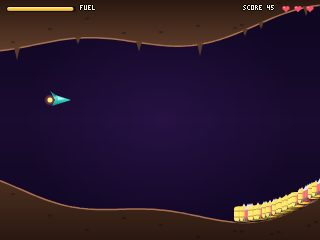
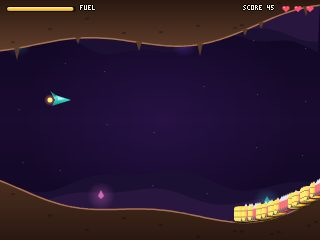
Round 29 batch 5 (v63): last checks and polish - all 55 3D worlds and the full test suite pass, Zombie Road redrawn (burning city, road, new truck), Cave Raid depth layers and crystals, Nova Arena guns no longer near-black
Claude-Session: https://claude.ai/code/session_01ThWvxuxbHiqKkzb7tn67px

diff --git a/games/action3.js b/games/action3.js
@@ -924,15 +924,23 @@ A.add({id:'zombieroad',name:'ZOMBIE ROAD',cat:'ACTION',time:300,how:'RIGHT GAS, 
   if(Math.abs(c.vx)<.15&&c.on){stopT++;if(stopT>70)endRun(c.fuel<=0?'OUT OF FUEL':'STALLED');}else stopT=0;if(c.fuel<0)c.fuel=0;
   camX+=(c.x-100+c.vx*10-camX)*.12;camY+=(c.y-160-camY)*.08;};
  const zomb=(x,y,st,k,rr)=>{const s=k==='fat'?.85:.7,o={s,c:k==='fat'?'#6a5a7a':'#5a6a8a',pants:'#3a3028',skin:'#8ab070',hair:'#3a3a20',st,d:-1,arm1:1.5,arm2:1.3,id:3};if(rr!==undefined)rot(x,y-10,rr,()=>A.person(0,10,o));else A.person(x,y,o);};
- const carD=()=>{const c=car,x=c.x-camX,y=c.y-camY;rot(x,y,c.a,()=>{GA(.3);R(-20,-2,40,3,'#000000');GA1();R(-20,-16,40,10,'#c83a2a');R(-8,-24,18,9,'#a02a20');R(-6,-23,7,6,'#a0d0f0');R(3,-23,6,6,'#a0d0f0');R(-20,-12,40,2,'#e86a4a');if(lv.arm){P([[20,-16],[27,-4],[20,-4]],'#9a9aa0',1);for(let i=0;i<lv.arm;i++)R(-18+i*4,-10,3,3,'#6a6a70');}
+ const carD=()=>{const c=car,x=c.x-camX,y=c.y-camY;rot(x,y,c.a,()=>{GA(.3);R(-20,-2,40,3,'#000000');GA1();const cc=A.c;if(loG())X.glow(30,-10,22,'#fff0b0',.25);cc.fillStyle='rgba(255,240,180,.12)';cc.beginPath();cc.moveTo(20,-12);cc.lineTo(80,-24);cc.lineTo(80,4);cc.closePath();cc.fill();P([[-21,-16],[-21,-6],[21,-6],[21,-13],[12,-15],[8,-25],[-9,-25],[-12,-16]],'#2a0e0a');cc.fillStyle=X.lg(0,-25,0,-6,['#f05a40','#c83a2a','#7a1e16']);cc.beginPath();cc.moveTo(-20,-15);cc.lineTo(-11,-15);cc.lineTo(-8,-24);cc.lineTo(7,-24);cc.lineTo(11,-14);cc.lineTo(20,-12);cc.lineTo(20,-7);cc.lineTo(-20,-7);cc.closePath();cc.fill();P([[-6,-23],[0,-23],[0,-16],[-9,-16]],'#9fd4f0');P([[2,-23],[6,-23],[9,-16],[2,-16]],'#7ab4d8');R(-20,-12,40,1.5,'rgba(255,200,170,.5)');R(18,-12,3,3,'#fff4c0');R(-21,-12,2,3,'#ff3030');if(lv.arm){P([[20,-16],[27,-4],[20,-4]],'#9a9aa0',1);for(let i=0;i<lv.arm;i++)R(-18+i*4,-10,3,3,'#6a6a70');}
   if(lv.gun){R(-4,-28,10,4,'#404048');R(4,-27,9,2,'#202028');}if(lv.boost){R(-26,-14,7,6,'#606068');}
-  for(const wx of[-12,12]){C(wx,-4,6,'#202020');C(wx,-4,3,'#909090');L(wx,-4,wx+cos(c.wr)*3,-4+sin(c.wr)*3,'#404040',1.5);}});};
+  for(const wx of[-12,12]){C(wx,-4,6.4,'#141414');C(wx,-4,5,'#262626');C(wx,-4,3,'#a8a8b0');for(let q=0;q<3;q++){const a=c.wr+q*2.094;L(wx,-4,wx+cos(a)*3,-4+sin(a)*3,'#505058',1.2);}C(wx,-4,1,'#e0e0e8');}});};
  g.draw=()=>{if(mode==='shop'){fillG(0,0,W,H,grad(0,0,0,H,[[0,'#2a2018'],[1,'#120c08']]));T('GARAGE - DAY '+day+'/'+DAYS,160,10,K.y,2,'c');T('CASH '+cash,160,28,K.g,1,'c');T('BEST '+best+' M OF '+(LEN/10)+' M',160,38,K.gr,1,'c');
    UP.forEach((u,i)=>{const y=52+i*26,on=sel===i,l=lv[u.k],c=COST[l];R(30,y,260,22,on?'#3a2a50':'#1e1810');A.box(30,y,260,22,on?K.y:'#4a3a2a');T(u.n,38,y+4,on?K.y:K.w,1);T(u.d,38,y+13,K.gr,1);for(let j=0;j<4;j++)R(190+j*12,y+5,9,6,j<l?K.g:'#3a3a3a');T(l>=4?'MAX':''+c,284,y+8,l>=4?K.gr:cash>=c?K.g:K.r,1,'r');});
    const y=52+5*26,on=sel===5;R(110,y,100,22,on?'#2a6a2a':'#1a3a1a');A.box(110,y,100,22,on?K.y:K.g);T('DRIVE!',160,y+8,K.w,1,'c');T('UP/DOWN PICK   A BUY OR DRIVE',160,H-10,K.gr,1,'c');return;}
-  fillG(0,0,W,H,grad(0,0,0,H,[[0,'#3a1a2a'],[.6,'#a04a3a'],[1,'#e08a4a']]));C(250,70-camY*.1,22,'#ffb070');
-  for(let i=0;i<12;i++){const x=((i*44-camX*.25)%528+528)%528-44,h=30+hash(i,9)*50;fillG(x,170-h-camY*.3,30,h+60,'#2a1420');for(let w=0;w<3;w++)if(hash(i,w)>.5)fillG(x+5+w*8,180-h-camY*.3,3,3,'#e0a040');}
-  A.c.fillStyle='#3a2a20';A.c.beginPath();A.c.moveTo(0,H);for(let sx=0;sx<=W+4;sx+=4)A.c.lineTo(sx,hgt(camX+sx)-camY);A.c.lineTo(W,H);A.c.fill();A.c.strokeStyle='#6a5a4a';A.c.lineWidth=3;A.c.beginPath();for(let sx=0;sx<=W+4;sx+=4)sx?A.c.lineTo(sx,hgt(camX+sx)-camY):A.c.moveTo(sx,hgt(camX+sx)-camY);A.c.stroke();
+  // dusk sky, a burning city in two parallax layers, then the road
+  X.cache('zr_sky',()=>{X.sky(['#140b1e','#3a1630','#8a2e3a','#e0703e','#f4b060']);X.stars(40,7,0,0,90,.5);X.glow(250,72,90,'#ffb070',.35);X.glow(250,72,30,'#ffe0a0',.6);});
+  const c=A.c,sy=camY*.1;X.disc(250,72-sy,20,'#ffd08a');
+  X.hills(150-camY*.15,26,'#3a1a30',camX*.08,.012,2);
+  for(let i=0;i<3;i++){const x=((i*170+60-camX*.12)%510+510)%510-60;if(loG())X.glow(x,140-camY*.18,40,'#ff6a20',.22);c.fillStyle='rgba(40,20,30,.5)';for(let k=0;k<4;k++){const r=10+k*7,a=(A.t*.01+k*.6+i)%1;c.beginPath();c.arc(x+k*6+sin(A.t*.02+k)*4,130-camY*.18-k*16-a*8,r,0,TAU);c.fill();}}
+  X.skyline(168-camY*.2,'#2a1222',camX*.2,3,'rgba(255,170,80,.55)');X.skyline(182-camY*.3,'#1c0c16',camX*.35,9,'rgba(255,200,110,.7)');
+  {c.fillStyle=X.lg(0,150,0,H,['#4a3426','#2a1c14','#160e0a']);c.beginPath();c.moveTo(0,H);for(let sx=0;sx<=W+4;sx+=4)c.lineTo(sx,hgt(camX+sx)-camY);c.lineTo(W,H);c.closePath();c.fill();
+   c.lineCap='round';c.strokeStyle='#1a1410';c.lineWidth=7;c.beginPath();for(let sx=0;sx<=W+4;sx+=4)sx?c.lineTo(sx,hgt(camX+sx)-camY+2):c.moveTo(sx,hgt(camX+sx)-camY+2);c.stroke();
+   c.strokeStyle='#3c3a40';c.lineWidth=5;c.beginPath();for(let sx=0;sx<=W+4;sx+=4)sx?c.lineTo(sx,hgt(camX+sx)-camY+1):c.moveTo(sx,hgt(camX+sx)-camY+1);c.stroke();
+   c.strokeStyle='rgba(255,220,120,.55)';c.lineWidth=1;const d0=((camX%24)+24)%24;for(let sx=-d0;sx<W;sx+=24){c.beginPath();c.moveTo(sx,hgt(camX+sx)-camY+1);c.lineTo(sx+10,hgt(camX+sx+10)-camY+1);c.stroke();}
+   c.fillStyle='rgba(0,0,0,.25)';for(let sx=-((camX*1)%16+16)%16;sx<W;sx+=16){const gy=hgt(camX+sx)-camY;c.fillRect(sx,gy+10+((sx+camX)|0)%7,3,2);}}
   for(let m=flo(camX/500)*500;m<camX+W+10;m+=500){if(m<=0)continue;const sx=m-camX,gy=hgt(m)-camY;L(sx,gy,sx,gy-16,'#cccccc');R(sx-8,gy-24,16,8,'#2a6a2a');T(''+m/10,sx,gy-22,K.w,1,'c');}
   {const sx=LEN-camX;if(sx<W+40){const gy=hgt(LEN)-camY;R(sx,gy-50,30,50,'#4a5a4a');R(sx+4,gy-46,22,8,K.g);T('EVAC',sx+15,gy-44,'#102010',1,'c');}}
   for(const q of crates)if(q.hp>0){const sx=q.x-camX,gy=hgt(q.x)-camY;if(sx>-20&&sx<W+20){R(sx-8,gy-16,16,16,'#a07040');L(sx-8,gy-16,sx+8,gy,'#6a4020');L(sx+8,gy-16,sx-8,gy,'#6a4020');}}
@@ -940,9 +948,9 @@ A.add({id:'zombieroad',name:'ZOMBIE ROAD',cat:'ACTION',time:300,how:'RIGHT GAS, 
   for(const f of flyers){GA(Math.min(1,f.t/30));zomb(f.x-camX,f.y-camY,0,f.k,f.r);}GA1();
   carD();for(const b of bul)L(b.x-camX,b.y-camY,b.x-camX-b.vx,b.y-camY-b.vy,K.y,1.5);
   if(fl){GA(fl/20);R(0,0,W,H,K.r);GA1();}
-  R(0,0,W,18,'rgba(0,0,0,.5)');T('DAY '+day,6,6,K.w,1);T('FUEL',40,6,K.gr,1);bar(58,5,50,7,car.fuel/car.mf,car.fuel<20?K.r:K.y);T('HP',114,6,K.gr,1);bar(124,5,40,7,car.hp/car.mh,K.g);if(car.mbf){T('BST',170,6,K.gr,1);bar(184,5,30,7,car.bf/car.mbf,K.o);}T(flo(car.x/10)+' M',W-6,6,K.y,1,'r');
+  R(0,0,W,18,'rgba(0,0,0,.5)');T('DAY '+day,6,6,K.w,1);T('FUEL',40,6,K.gr,1);bar(58,5,50,7,car.fuel/car.mf,car.fuel<20?K.r:K.y);T('HP',114,6,K.gr,1);bar(124,5,40,7,car.hp/car.mh,K.g);if(car.mbf){T('BST',170,6,K.gr,1);bar(184,5,30,7,car.bf/car.mbf,K.o);}T(Math.max(0,flo(car.x/10))+' M',W-6,6,K.y,1,'r');
   bar(6,22,W-12,3,car.x/LEN,'#ffffff','rgba(0,0,0,.3)');T('CASH '+cash,6,29,K.g,1);
-  if(mode==='end'){GA(.75);R(40,70,240,90,'#000000');GA1();A.box(40,70,240,90,K.y);T(endMsg,160,82,K.r,2,'c');T('DISTANCE '+flo(car.x/10)+' M',160,104,K.w,1,'c');T('CASH THIS RUN +'+runCash,160,116,K.g,1,'c');T('BEST '+best+' M',160,128,K.c,1,'c');if(stopT>60)T('A: BACK TO THE GARAGE',160,144,K.y,1,'c');}};
+  if(mode==='end'){GA(.75);R(40,70,240,90,'#000000');GA1();A.box(40,70,240,90,K.y);T(endMsg,160,82,K.r,2,'c');T('DISTANCE '+Math.max(0,flo(car.x/10))+' M',160,104,K.w,1,'c');T('CASH THIS RUN +'+runCash,160,116,K.g,1,'c');T('BEST '+best+' M',160,128,K.c,1,'c');if(stopT>60)T('A: BACK TO THE GARAGE',160,144,K.y,1,'c');}};
  return g;}});
 
 /* ---- SPELL CASTER ---- */

diff --git a/games/retro5.js b/games/retro5.js
@@ -118,7 +118,13 @@ A.add({id:'caveraid',name:'CAVE RAID',cat:'CLASSICS',how:'FLY THE CAVE. A FIRES,
   if(inv===0&&(s.y<top(s.x)+4||s.y>bot(s.x)-4))crash();if(fuel<=0){g.over='OUT OF FUEL';return;}bl=bl.filter(b=>{if(b.x<W&&b.y>top(b.x)&&b.y<bot(b.x))return true;if(b.x<W)fx.spark(b.x,b.y,'#9ff8ff',3,1.2);return false;});bombs=bombs.filter(b=>{if(b.y<bot(b.x))return true;fx.spark(b.x,b.y,'#ff9838',6,1.8);return false;});tgt=tgt.filter(t_=>!t_.dead&&t_.x>-10&&t_.y>0);if(A.t%15===0)g.score++;};
  const crash=()=>{lives--;inv=90;S('boom');A.shake=8;A.burst(s.x,s.y,K.o,20,3);fx.debris(s.x,s.y,'#2fd6c3',10,2.5);fx.flash('#ff9838',8);s.y=(top(s.x)+bot(s.x))/2;if(lives<=0)g.over='CRASHED';};
  const rock=(fn,up)=>{const c=A.c;c.beginPath();c.moveTo(0,up?0:H);for(let x=0;x<=W;x+=4)c.lineTo(x,fn(x));c.lineTo(W,up?0:H);c.closePath();c.fillStyle=X.lg(0,up?0:120,0,up?60:H,up?['#2a1810','#6a4430']:['#6a4430','#2a1810']);c.fill();c.strokeStyle='#a87050';c.lineWidth=1.5;c.beginPath();for(let x=0;x<=W;x+=4)x?c.lineTo(x,fn(x)):c.moveTo(x,fn(x));c.stroke();c.fillStyle='rgba(0,0,0,.25)';for(let i=0;i<12;i++){const xx=((i*37-d)%(W+20)+W+20)%(W+20)-10,yy=fn(xx)+(up?-8-(i%3)*6:8+(i%3)*6);c.fillRect(xx,yy,4,2);}};
- g.draw=()=>{X.cache('cv_bg',()=>{X.sky(['#0e0620','#1a0c30','#0e0620']);X.glow(160,120,140,'#5a2a8a',.15);});const c=A.c;rock(top,true);rock(bot,false);for(let i=0;i<8;i++){const xx=((i*61-d*1)%(W+30)+W+30)%(W+30)-15;const ty=top(xx);X.poly([[xx-3,ty-1],[xx+3,ty-1],[xx,ty+6+(i%3)*3]],'#5a3a28');}
+ g.draw=()=>{X.cache('cv_bg',()=>{X.sky(['#0e0620','#1a0c30','#0e0620']);X.glow(160,120,140,'#5a2a8a',.15);});const c=A.c;
+  // depth: two far cave walls scrolling slower than the play rock, faint crystal glints and drifting spores
+  for(const[sp,col,amp,base]of[[.25,'#1c1032',26,58],[.5,'#28163e',20,42]]){c.fillStyle=col;c.beginPath();c.moveTo(0,0);for(let x=0;x<=W;x+=6){const u=(x+d*sp)*.03;c.lineTo(x,base-amp*(.5+.35*Math.sin(u)+.15*Math.sin(u*2.7+1)));}c.lineTo(W,0);c.closePath();c.fill();
+   c.beginPath();c.moveTo(0,H);for(let x=0;x<=W;x+=6){const u=(x+d*sp)*.028+3;c.lineTo(x,H-base+amp*.4-amp*(.5+.35*Math.sin(u)+.15*Math.sin(u*2.3)));}c.lineTo(W,H);c.closePath();c.fill();}
+  if(lo())for(let i=0;i<5;i++){const xx=((i*83-d*.5)%(W+40)+W+40)%(W+40)-20,yy=i%2?36+(i*7)%14:H-36-(i*11)%14,cc=['#7a5cff','#2fd6c3','#ff7fd0'][i%3];X.glow(xx,yy,14,cc,.25);X.poly([[xx,yy-6],[xx+3,yy],[xx,yy+3],[xx-3,yy]],X.rgba?X.rgba(cc,.7):cc);}
+  if(hi())for(let i=0;i<16;i++){const xx=((i*47-d*.8+Math.sin(A.t*.02+i)*6)%(W+10)+W+10)%(W+10)-5,yy=40+((i*61+A.t*.15)%160);c.fillStyle='rgba(200,180,255,.25)';c.fillRect(xx,yy,1.2,1.2);}
+  rock(top,true);rock(bot,false);for(let i=0;i<8;i++){const xx=((i*61-d*1)%(W+30)+W+30)%(W+30)-15;const ty=top(xx);X.poly([[xx-3,ty-1],[xx+3,ty-1],[xx,ty+6+(i%3)*3]],'#5a3a28');}
   tgt.forEach(t_=>{if(t_.k==='f'){X.shadow(t_.x,t_.y+7,7,1.5,.4);X.rr(t_.x-6,t_.y-8,12,15,3,X.lg(t_.x-6,0,t_.x+6,0,['#fff080','#ffcf3f','#c89010']));c.fillStyle='rgba(0,0,0,.3)';c.fillRect(t_.x-6,t_.y-4,12,1);c.fillRect(t_.x-6,t_.y+2,12,1);T('F',t_.x,t_.y-3,'#3a2a00',1,'c');}else{if(t_.up&&lo())X.glow(t_.x,t_.y+8,6,'#ff9838',.8);X.poly([[t_.x,t_.y-11],[t_.x-4,t_.y-4],[t_.x+4,t_.y-4]],'#e8e8f0');X.rr(t_.x-3.5,t_.y-5,7,11,1.5,X.lg(t_.x-3,0,t_.x+3,0,['#ff8a8a','#d02a3a','#8a1020']));X.poly([[t_.x-3.5,t_.y+6],[t_.x-6,t_.y+8],[t_.x-3.5,t_.y+2]],'#5a5a6a');X.poly([[t_.x+3.5,t_.y+6],[t_.x+6,t_.y+8],[t_.x+3.5,t_.y+2]],'#5a5a6a');}});
   bl.forEach(b=>{X.stroke([[b.x,b.y],[b.x+6,b.y]],'#9ff8ff',1.6);if(lo())X.glow(b.x+3,b.y,4,'#2fd6c3',.5);});bombs.forEach(b=>X.orb(b.x,b.y,2.8,'#c8c8d8'));
   trail.forEach((p,i)=>{c.globalAlpha=(1-i/8)*.5;X.disc(p[0],p[1],2.5-i*.25,i<2?'#fff3a0':'#ff9838');});c.globalAlpha=1;

diff --git a/sw.js b/sw.js
@@ -1,5 +1,5 @@
 // Pixel Arcade service worker: installable app + offline play. Generated from sw.template.js by tools/make_pwa.py.
-const VERSION = '6d51793095';
+const VERSION = '81a1448ea9';
 const CORE = ["./", "index.html", "manifest.webmanifest", "style.css", "docs/icons/apple-touch-icon.png", "docs/icons/favicon-64.png", "docs/icons/icon-1024.png", "docs/icons/icon-192.png", "docs/icons/icon-512.png", "docs/icons/maskable-512.png", "fonts/OFL-Anton.txt", "fonts/OFL-AtkinsonHyperlegibleNext.txt", "fonts/OFL-JetBrainsMono.txt", "fonts/anton-400.woff2", "fonts/atkinson-next-400.woff2", "fonts/atkinson-next-700.woff2", "fonts/atkinson-next-800.woff2", "fonts/fonts.css", "fonts/jetbrains-mono-400.woff2", "fonts/jetbrains-mono-700.woff2", "fonts/pa-pixel.woff2", "games/action.js", "games/action2.js", "games/action3.js", "games/advanced1.js", "games/advanced2.js", "games/arcade4.js", "games/arcade5.js", "games/board2.js", "games/cards.js", "games/classics1.js", "games/classics2.js", "games/classics3.js", "games/classics4.js", "games/finale.js", "games/misc6.js", "games/more.js", "games/orchard.js", "games/party.js", "games/popular1.js", "games/popular2.js", "games/popular3.js", "games/popular4.js", "games/popular5.js", "games/powerup.js", "games/puzzle.js", "games/puzzle2.js", "games/puzzle3.js", "games/puzzle4.js", "games/puzzle5.js", "games/retro4.js", "games/retro5.js", "games/roadside.js", "games/rush.js", "games/saga.js", "games/sim.js", "games/skyway.js", "games/solo.js", "games/space1.js", "games/sports1.js", "games/sports2.js", "games/sports3.js", "games/sports4.js", "games/sports5.js", "games/sports6.js", "games/tabletop.js", "games/threed.js", "games/threed2.js", "games/threed3.js", "games/threed4.js", "games/threed5.js", "games/versus2.js", "games/versus3.js", "games/versus4.js", "games/versus5.js", "js/arcade-scene.js", "js/cabinet3d.js", "js/carts.js", "js/console.js", "js/fx.js", "js/fx3d.js", "js/gx.js", "js/intro.js", "js/lobby.js", "js/net.js", "js/spot.js", "js/engine/00-core.js", "js/engine/01-draw.js", "js/engine/02-pseudo3d.js", "js/engine/03-person.js", "js/engine/04-audio.js", "js/engine/05-fx.js", "js/engine/06-input.js", "js/engine/07-session.js", "js/engine/08-scores.js", "js/engine/09-clock.js", "js/engine/10-cards.js", "js/engine/11-loop.js", "js/engine/12-hub.js", "js/kit3d/audio.js", "js/kit3d/input.js", "js/kit3d/paint.js", "js/kit3d/place.js", "js/kit3d/reflect.js", "js/kit3d/score.js", "js/kit3d/ui.js"];
 const SHELL = 'pa-shell-' + VERSION, RUNTIME = 'pa-runtime';
 self.addEventListener('install', e => {

diff --git a/arena/weapons.js b/arena/weapons.js
@@ -17,9 +17,9 @@ export const SPAWN_KIT=['pulse','carbine'];
 /* ---------- gun models ---------- */
 let MS=null;
 function mats(){if(MS)return MS;const std=o=>new THREE.MeshStandardMaterial(o);
- MS={body:std({color:0x3c424e,roughness:.35,metalness:.85}),dark:std({color:0x16181d,roughness:.5,metalness:.6}),light:std({color:0x6a7180,roughness:.35,metalness:.85}),
+ MS={body:std({color:0x4a515e,roughness:.38,metalness:.62}),dark:std({color:0x16181d,roughness:.5,metalness:.6}),light:std({color:0x7a8190,roughness:.36,metalness:.65}),
   grip:std({color:0x1f2228,roughness:.85,metalness:.1}),white:std({color:0xb8bcc6,roughness:.4,metalness:.3}),glove:std({color:0x2a2d33,roughness:.75,metalness:.2}),
-  armor:std({color:0x50607a,roughness:.32,metalness:.6})};for(const k in MS)MS[k].envMapIntensity=.2;return MS;}
+  armor:std({color:0x50607a,roughness:.32,metalness:.6})};for(const k in MS)MS[k].envMapIntensity=.55;return MS;}
 const glowM=c=>new THREE.MeshBasicMaterial({color:new THREE.Color(c).multiplyScalar(1.15)});
 // part list -> merged meshes per material; returns group
 function build(parts){const g=new THREE.Group(),by=new Map();for(const[geo,mat,x,y,z,rx=0,ry=0,rz=0,sx=1,sy=1,sz=1]of parts){let a=by.get(mat);if(!a)by.set(mat,a=[]);a.push([geo,M4(x,y,z,rx,ry,rz,sx,sy,sz)]);}

diff --git a/arena/game.js b/arena/game.js
@@ -31,7 +31,7 @@ const tv=new V(),tv2=new V(),tv3=new V(),UP=new V(0,1,0);
 const canvas=$('c');const R=new THREE.WebGLRenderer({canvas,powerPreference:'high-performance'});R.setPixelRatio(Math.min(devicePixelRatio,1.5));R.shadowMap.enabled=true;R.shadowMap.type=THREE.PCFSoftShadowMap;R.shadowMap.autoUpdate=false;
 const scene=new THREE.Scene();const cam=new THREE.PerspectiveCamera(80,1,.06,9000);cam.rotation.order='YXZ';scene.add(cam);
 const vmScene=new THREE.Scene(),vmCam=new THREE.PerspectiveCamera(58,1,.01,10);vmScene.add(vmCam);
-const vmHemi=new THREE.HemisphereLight(0xdfe8ff,0x202430,.55),vmKey=new THREE.DirectionalLight(0xffffff,1.1),vmRim=new THREE.DirectionalLight(0x6fb8ff,.7);vmKey.position.set(-1,2,1);vmRim.position.set(2,.5,-1.5);vmScene.add(vmHemi,vmKey,vmRim);
+const vmHemi=new THREE.HemisphereLight(0xdfe8ff,0x303644,.9),vmKey=new THREE.DirectionalLight(0xffffff,1.6),vmRim=new THREE.DirectionalLight(0x6fb8ff,1.1);vmKey.position.set(-1,2,1);vmRim.position.set(2,.5,-1.5);vmScene.add(vmHemi,vmKey,vmRim);
 const VM=new Viewmodel(vmCam);const snd=new Sound();
 const parts=new Particles(scene,5000),smoke=new Particles(scene,1400,true),beams=new Beams(scene,128),shocks=new Shocks(scene,10),decals=new Decals(scene,160),lights=new LightPool(scene,5);
 

diff --git a/README.md b/README.md
@@ -199,12 +199,13 @@ Classic arcade, sports, board games with real CPU search, puzzles, cards, party 
 Where the arcade is heading: every release, and which 3D worlds have had the realism pass (physically based materials, real lighting, detailed models and effects, plus deeper gameplay). Generated by `tools/gen_docs.py` from the game registry and [`docs/progress.json`](docs/progress.json), so the counts can't go stale.
 
 <!-- gen:progress (generated by tools/gen_docs.py) -->
-![latest](https://img.shields.io/badge/latest-v62-2443ff?style=flat-square) ![realism](https://img.shields.io/badge/realism_pass-12%2F55_worlds-f2f2f2?style=flat-square)
+![latest](https://img.shields.io/badge/latest-v63-2443ff?style=flat-square) ![realism](https://img.shields.io/badge/realism_pass-12%2F55_worlds-f2f2f2?style=flat-square)
 
 **`████░░░░░░░░░░░░░░░░` 12 of 55 full-3D worlds have had the realism pass (22%).**
 
 | Release | Date | Branch | Games | 3D | What it added |
 |---|---|---|---|---|---|
+| **v63** | 6 Nov 2026 | `round29` | 521 | 55 | Last checks and polish. The five 3D worlds that crashed or timed out in the test browser (Abyss Diver, Storm Royale, Frontline, Starfall, Strike Zone) now pass, and the full test suite passes for every cabinet. Zombie Road is redrawn with a burning city skyline, a proper road and a new truck, Cave Raid gains layered cave walls and glowing crystals, and the Nova Arena guns are no longer near-black. |
 | **v62** | 6 Nov 2026 | `round29` | 521 | 55 | 3D world pass and Rocket Arena polish. All 52 other 3D worlds were played past their menus with random input and checked screen by screen. Bastion Line's diorama now sits on a war-room table instead of floating in empty sky when you pan or turn the camera, and the Longbow Keep bow is a proper tapered bow with a visible string. Rocket Arena gains a floor marker under a high ball for judging aerials and an arrow at the screen edge pointing to the ball when it is off screen. |
 | **v61** | 6 Nov 2026 | `round29` | 521 | 55 | Clean-up sweep of the other games. Every arcade cabinet was run with random input looking for frozen screens, games that never end and clipped text, and the 3D worlds were played past their menus. Score and bonus pop-ups now always stay on screen instead of drifting off an edge or under the top bar, and the first-person shooter cabinet no longer shows negative health on the death frame. The quality sweep (tests/qa.js) reports each problem as it finds it and can be split across processes. |
 | **v60** | 5 Nov 2026 | `round29` | 521 | 55 | A slower, clearer front-page intro and new README key art. The scroll intro now tells five short chapters (the games, the 3D worlds, no installs or accounts, the round clock, insert coin), each holding still for about half a screen of scrolling with a sentence of detail, a darkened reading panel and a clickable chapter rail. The README opens on a tilted, drifting wall of 3D world screenshots behind the title instead of a crop of the intro. |

diff --git a/CHANGELOG.md b/CHANGELOG.md
@@ -4,6 +4,14 @@ Release numbers follow the commit history on GitHub. Numbers that are missing fr
 
 ## Unreleased (on branch `round29`, which includes rounds 11 to 29)
 
+### Round 29, batch 5 (v63): last checks and polish
+
+- **Every 3D world checked:** the five worlds that crashed or timed out in the test browser last time (Abyss Diver, Storm Royale, Frontline, Starfall, Strike Zone) were played again one at a time, with no errors. That covers all 55.
+- **Full test suite:** every arcade cabinet passes in solo, CPU and two-player modes at two difficulty levels, with no crashes and no broken drawing.
+- **Zombie Road:** redrawn with a dusk sky, a burning city in two parallax layers with smoke, an asphalt road with lane marks, and a shaded pickup truck with headlights and spoked wheels. The distance readout no longer goes negative when you roll backwards.
+- **Cave Raid:** two layers of far cave wall scroll behind the play area, with glowing crystals and drifting spores.
+- **Nova Arena:** the first-person guns were so metallic that they rendered almost black. They now pick up the room lighting.
+
 ### Round 29, batch 4 (v62): 3D world pass and Rocket Arena polish
 
 - **3D worlds checked one by one:** all 52 other 3D worlds were started and played with random input, with screenshots of each one in play. None of them threw script errors.
